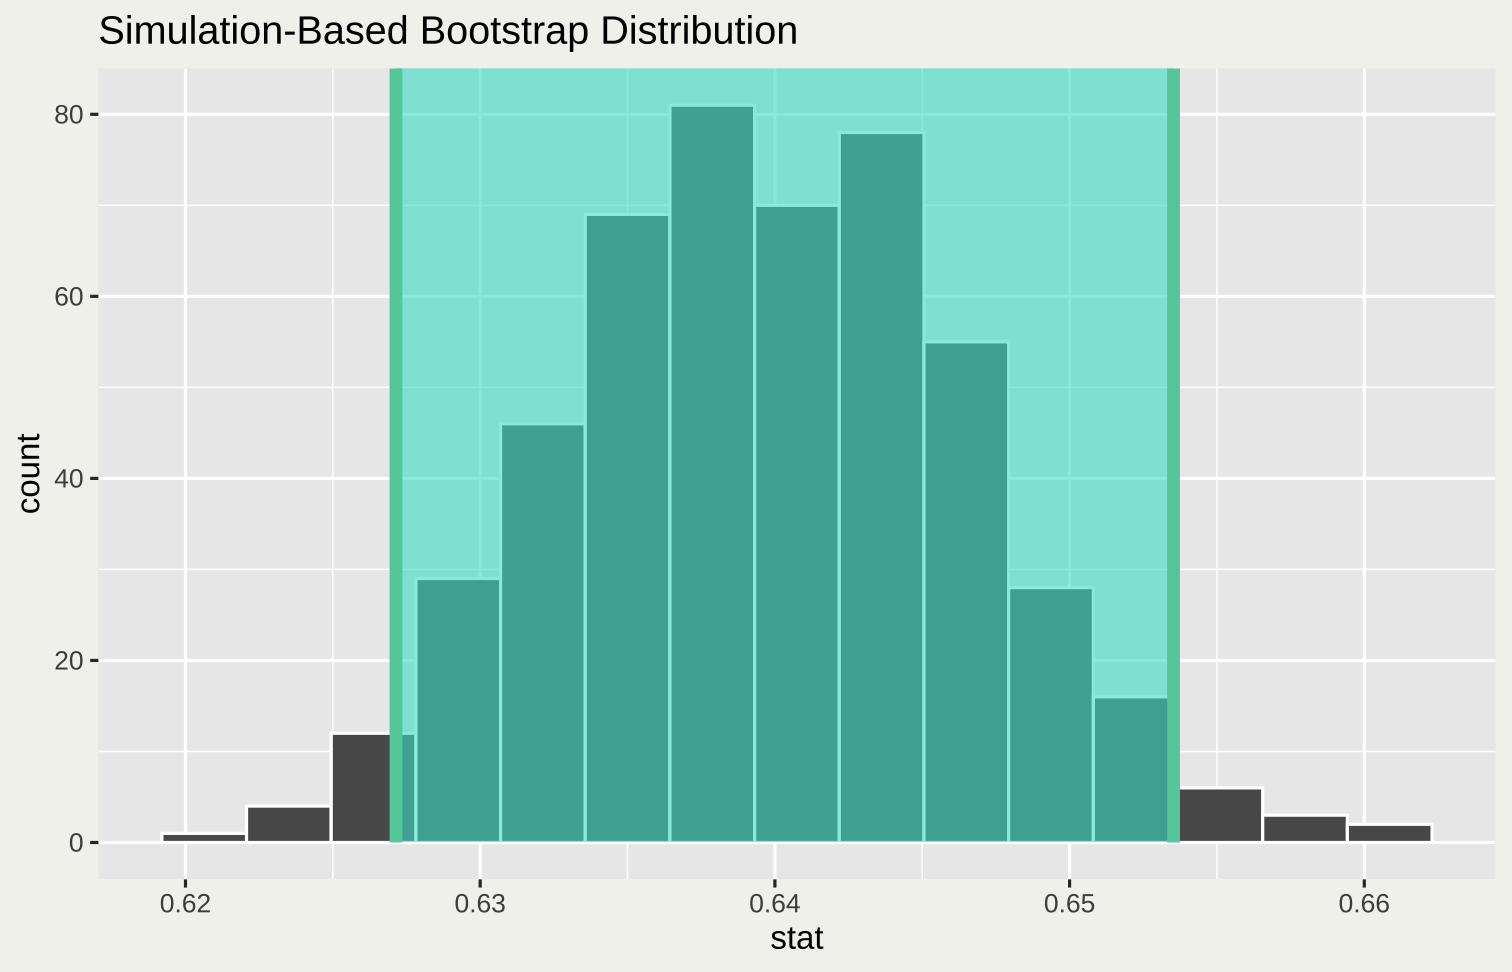
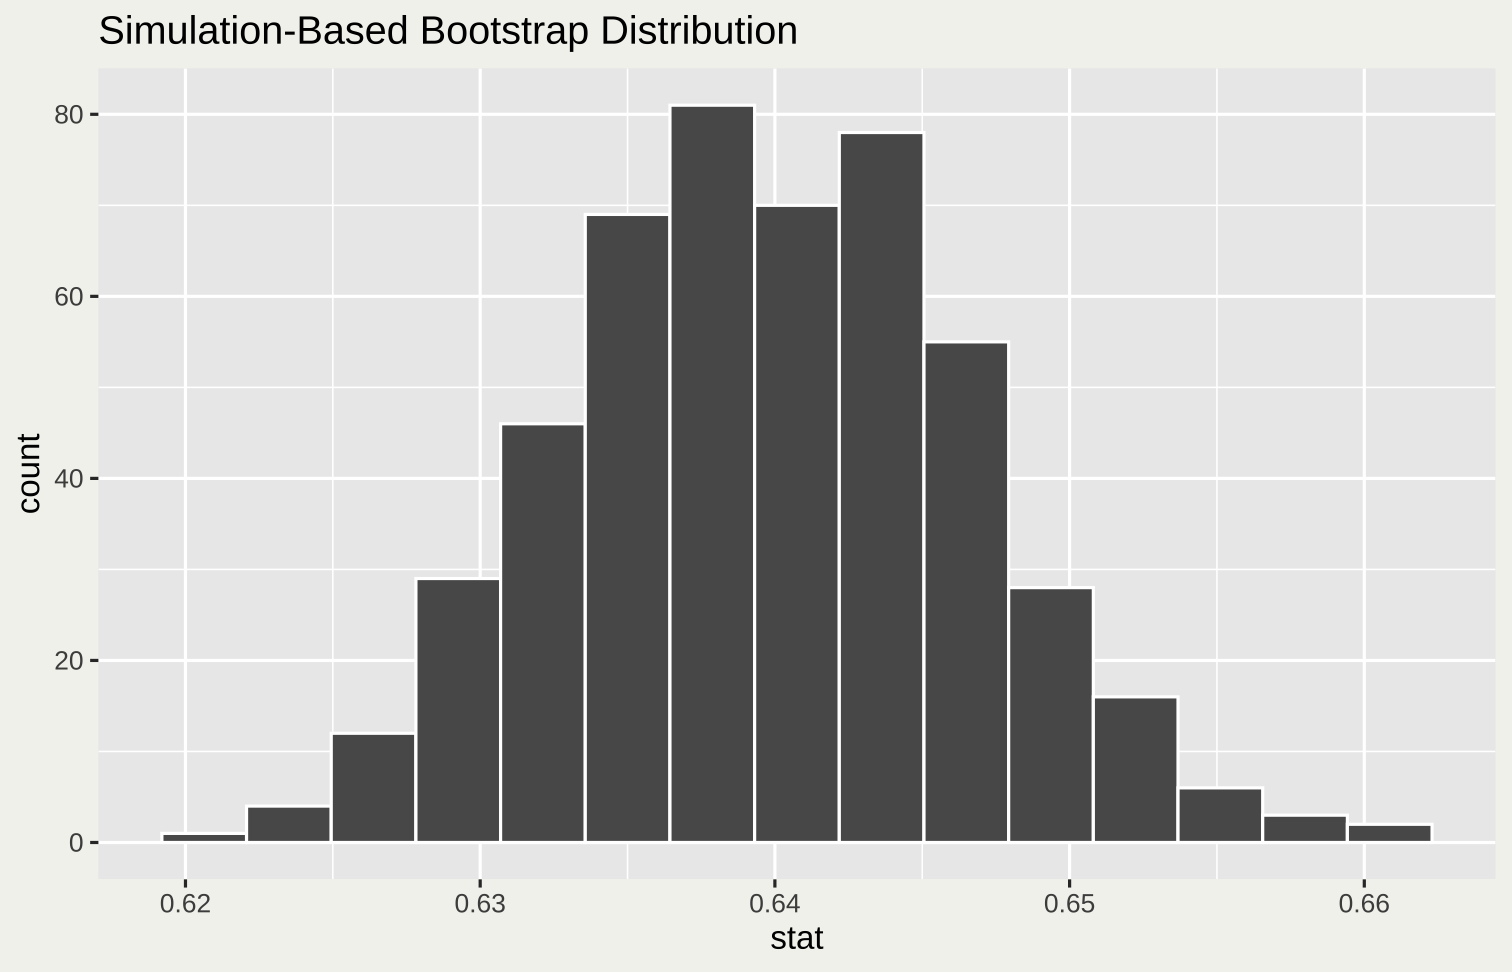
add boardwork

diff --git a/slides/week-08/CI-for-prop.html b/slides/week-08/CI-for-prop.html
@@ -63,12 +63,21 @@ Start class by drawing Plato's Cave on the board
 
 ---
 
-Boardwork
+&lt;img src="figs/sampling-dist.jpg" width="80%" style="display: block; margin: auto;" /&gt;
+
+---
+
+&lt;img src="figs/boot-1.jpg" width="80%" style="display: block; margin: auto;" /&gt;
+
+---
+
+&lt;img src="figs/boot-2.jpg" width="80%" style="display: block; margin: auto;" /&gt;
+
 
 ---
 class: center, middle, inverse
 
-# Finding the Sampling Distribution with the Bsootstrap
+# Approximating the Sampling Distribution with the Bootstrap
 
 ---
 ## Pew Data
@@ -150,7 +159,7 @@ pew %&gt;%
 --
 
 .pull-right[
-&lt;img src="CI-for-prop_files/figure-html/unnamed-chunk-7-1.png" width="504" style="display: block; margin: auto;" /&gt;
+&lt;img src="CI-for-prop_files/figure-html/unnamed-chunk-10-1.png" width="504" style="display: block; margin: auto;" /&gt;
 ]
 
 ---
@@ -373,7 +382,7 @@ boot_9 %&gt;%
 --
 
 .pull-right[
-&lt;img src="CI-for-prop_files/figure-html/unnamed-chunk-15-1.png" width="504" style="display: block; margin: auto;" /&gt;
+&lt;img src="CI-for-prop_files/figure-html/unnamed-chunk-18-1.png" width="504" style="display: block; margin: auto;" /&gt;
 ]
 
 ---
@@ -467,7 +476,65 @@ boot %&gt;%
 --
 
 .pull-right[
-&lt;img src="CI-for-prop_files/figure-html/unnamed-chunk-18-1.png" width="504" style="display: block; margin: auto;" /&gt;
+&lt;img src="CI-for-prop_files/figure-html/unnamed-chunk-21-1.png" width="504" style="display: block; margin: auto;" /&gt;
+]
+
+---
+## Visualizing bootstrap dist. of `\(\hat{p}\)` (500 reps)
+
+`visualize()` is a short cut to make a ggplot for null and sampling (bootstrap) distributions.
+
+--
+
+.pull-left[
+
+```r
+boot %&gt;%
+  visualize()
+```
+]
+
+--
+
+.pull-right[
+&lt;img src="CI-for-prop_files/figure-html/unnamed-chunk-22-1.png" width="504" style="display: block; margin: auto;" /&gt;
+]
+
+
+---
+## Constructing a confidence interval
+
+.pull-left[
+**Characteristics of CIs**
+- A summary of sampling variability in an estimate using an interval
+    - (lower bound, upper bound)
+- These intervals are built to contain the parameter with probability `\(1-\alpha\)` (the confidence level).
+- A percentile bootstrap interval is the middle `\(1-\alpha\)` of the bootstrap distribution.
+]
+
+.pull-right[
+&lt;img src="CI-for-prop_files/figure-html/unnamed-chunk-23-1.png" width="504" style="display: block; margin: auto;" /&gt;
+]
+
+
+---
+## Visualizing the confidence interval
+
+
+
+--
+
+.pull-left[
+
+```r
+boot %&gt;%
+  visualize() +
+* shade_ci(ci_boot)
+```
+]
+
+.pull-right[
+&lt;img src="CI-for-prop_files/figure-html/unnamed-chunk-25-1.png" width="504" style="display: block; margin: auto;" /&gt;
 ]
 
 ---
@@ -497,36 +564,20 @@ ci_boot
 
 
 ---
-## Visualizing bootstrap dist. of `\(\hat{p}\)` (500 reps)
+## Compute `\(1 - \alpha\)` confidence interval
 
-`visualize()` is a short cut to make a ggplot for null and sampling (bootstrap) distributions. Allows shading of p-values and confidence intervals.
+`get_ci()` takes the _bootstrap distribution_ and a `\(1 - \alpha\)` _confidence level_ and returns a _percentile confidence interval_.
 
---
+### 95% Percentile confidence interval
 
 .pull-left[
 
 ```r
-boot %&gt;%
-  visualize() +
-* shade_ci(ci_boot)
-```
-]
-
---
-
-.pull-right[
-&lt;img src="CI-for-prop_files/figure-html/unnamed-chunk-20-1.png" width="504" style="display: block; margin: auto;" /&gt;
-]
-
----
-## Interpreting a Confidence Interval
-
---
-
-
-```r
+ci_boot &lt;- boot %&gt;%
+* get_ci(level = .95)
 ci_boot
 ```
+
 
 ```
 ## # A tibble: 1 × 2
@@ -534,31 +585,55 @@ ci_boot
 ##      &lt;dbl&gt;    &lt;dbl&gt;
 ## 1    0.627    0.654
 ```
+]
 
+.pull-right[
+**Interpretation**
 We are 95% confident that the true proportion of Republicans that think Democrats are closed minded is between 62.7% and 65.4%.
-
+]
 
 ---
 
-&lt;img src="figs/infer-w-approx.jpg" width="85%" style="display: block; margin: auto;" /&gt;
+&lt;img src="figs/ci-interpretation.jpg" width="85%" style="display: block; margin: auto;" /&gt;
+
+---
+
+&lt;img src="figs/infer-1.jpg" width="85%" style="display: block; margin: auto;" /&gt;
+
+---
+
+&lt;img src="figs/infer-2.jpg" width="85%" style="display: block; margin: auto;" /&gt;
+
+---
+
+&lt;img src="figs/infer-3.jpg" width="85%" style="display: block; margin: auto;" /&gt;
+
+---
+
+&lt;img src="figs/infer-4.jpg" width="85%" style="display: block; margin: auto;" /&gt;
+
+---
+
+&lt;img src="figs/infer-5.jpg" width="85%" style="display: block; margin: auto;" /&gt;
+
 
 
 ---
 class: middle, inverse, center
 
-# Finding the Sampling Distribution with Probability Theory
+# Approximating the Sampling Distribution with Probability Theory
 
 ---
 ## Normal Approximation Method
 
-The sampling distribution of the point estimate `\(\hat{p}\)` can be well-approximated with:
+By the Central Limit Theorem, the sampling distribution of the point estimate `\(\hat{p}\)` can be well-approximated with:
   
 `$$\hat{p} \sim N(\mu = p, \sigma = \sqrt{\frac{p(1-p)}{n}}) \quad \quad$$` if
 
 --
 
 1. Observations are independent
-2. The sample is large enough (rule of thumb: the number of observed successes and failures is more than 10).
+2. The sample is large (rule of thumb: the number of observed successes and failures is more than 10).
 
 `$$n\hat{p} \ge 10 \\
 n(1 - \hat{p}) \ge 10$$`
@@ -567,7 +642,7 @@ n(1 - \hat{p}) \ge 10$$`
 ---
 ## Constructing a CI using the Normal
 
-&lt;img src="CI-for-prop_files/figure-html/unnamed-chunk-23-1.png" width="504" style="display: block; margin: auto;" /&gt;
+&lt;img src="CI-for-prop_files/figure-html/unnamed-chunk-34-1.png" width="504" style="display: block; margin: auto;" /&gt;
 
 --
 
@@ -594,7 +669,7 @@ The sampling distribution of the point estimate `\(\hat{p}\)` can be well-approx
 point estimate `\(\pm\)` margin of error
 &lt;/center&gt;
 
-`$$\hat{p} \pm 1.96 \sqrt{(\hat{p} \times (0.36)1 - \hat{p})/n}$$`
+`$$\hat{p} \pm 1.96 \sqrt{(\hat{p} (1 - \hat{p})/n}$$`
 
 _margin of error_: amount above and below the point estimate where you are confident that parameter lies
 
@@ -602,7 +677,7 @@ _margin of error_: amount above and below the point estimate where you are confi
 ## Question
 
 We are given that `\(n = 4947, \hat{p} = 0.64\)`. Which of the
-below is the correct calculation of the 95% confidence interval?
+below is the correct calculation of the 95% confidence interval using the normal approximation?
 
 1. `\(0.64 \pm 1.96 \sqrt{(.64 \times 0.36)/4947}\)`
 2. `\(0.64 \pm 1.65 \sqrt{(.64 \times 0.36)/4947}\)`
@@ -612,7 +687,7 @@ below is the correct calculation of the 95% confidence interval?
 ---
 ## Constructing a CI using the Normal
 
-&lt;img src="CI-for-prop_files/figure-html/unnamed-chunk-24-1.png" width="504" style="display: block; margin: auto;" /&gt;
+&lt;img src="CI-for-prop_files/figure-html/unnamed-chunk-35-1.png" width="504" style="display: block; margin: auto;" /&gt;
 
 --
 
@@ -661,7 +736,7 @@ ci_boot
 
 ### Normal approximation
 
-- Must satisfy assumptions (independence, sample size)
+- Must satisfy assumptions (independence, large sample size)
 - Most commonly used (still)
 
 
